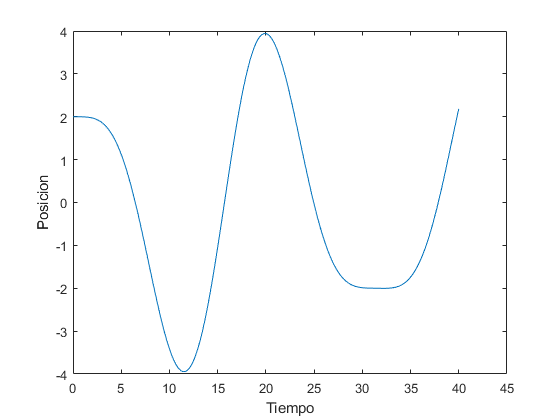
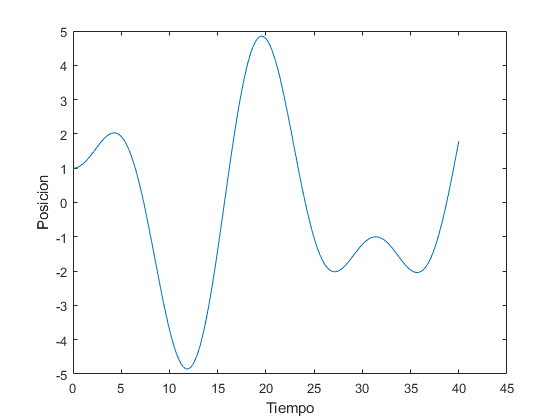
F

diff --git a/Tema4/Practica/ApartadoF.m b/Tema4/Practica/ApartadoF.m
@@ -1,0 +1,25 @@
+global a b w f0;
+clf
+t0 = 0; %Valor inicial del tiempo
+v0 = 0; %Velocidad inicial
+x0 = 1; %Posicion inicial
+f0 = 0.1; %Fuerza inicial
+b = 0.5; %Coeficiente para la fuerza elastica
+h = 0.1; %Tamanyo del paso
+k = 1000; %Numero de pasos a dar
+a = 0.05; %Coeficiente para el rozamiento
+
+
+w = 0.5; %Velocidad angular
+
+y0(1) = x0;
+y0(2) = v0;
+
+[xk, yk]=mHeun(@funcB, t0, y0, h, k);
+
+yk = yk.';
+
+
+plot(xk,yk(:,1))
+xlabel("Tiempo")
+ylabel("Posicion")
